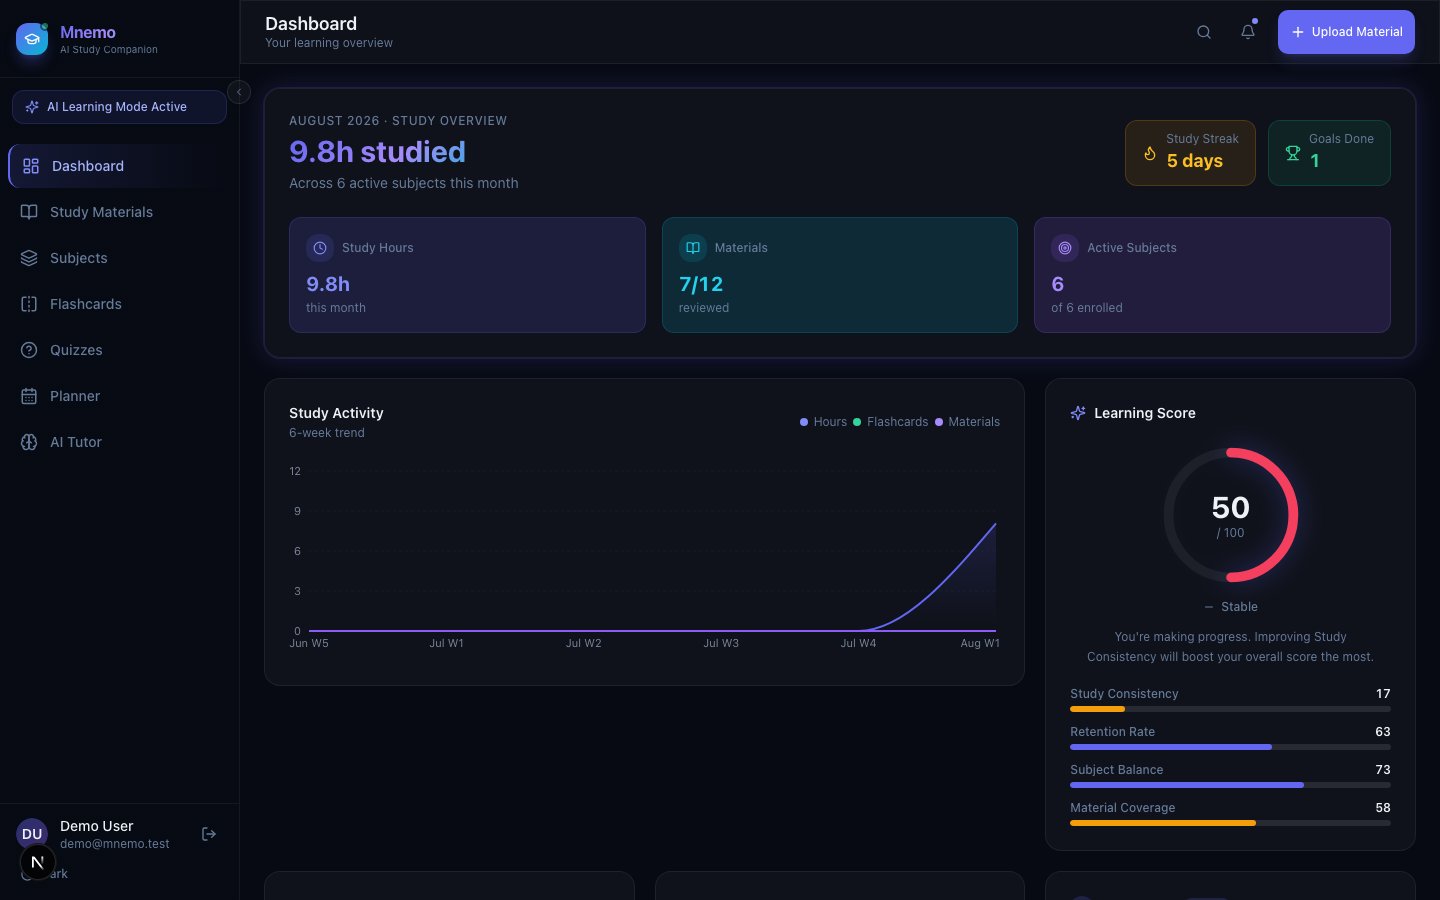
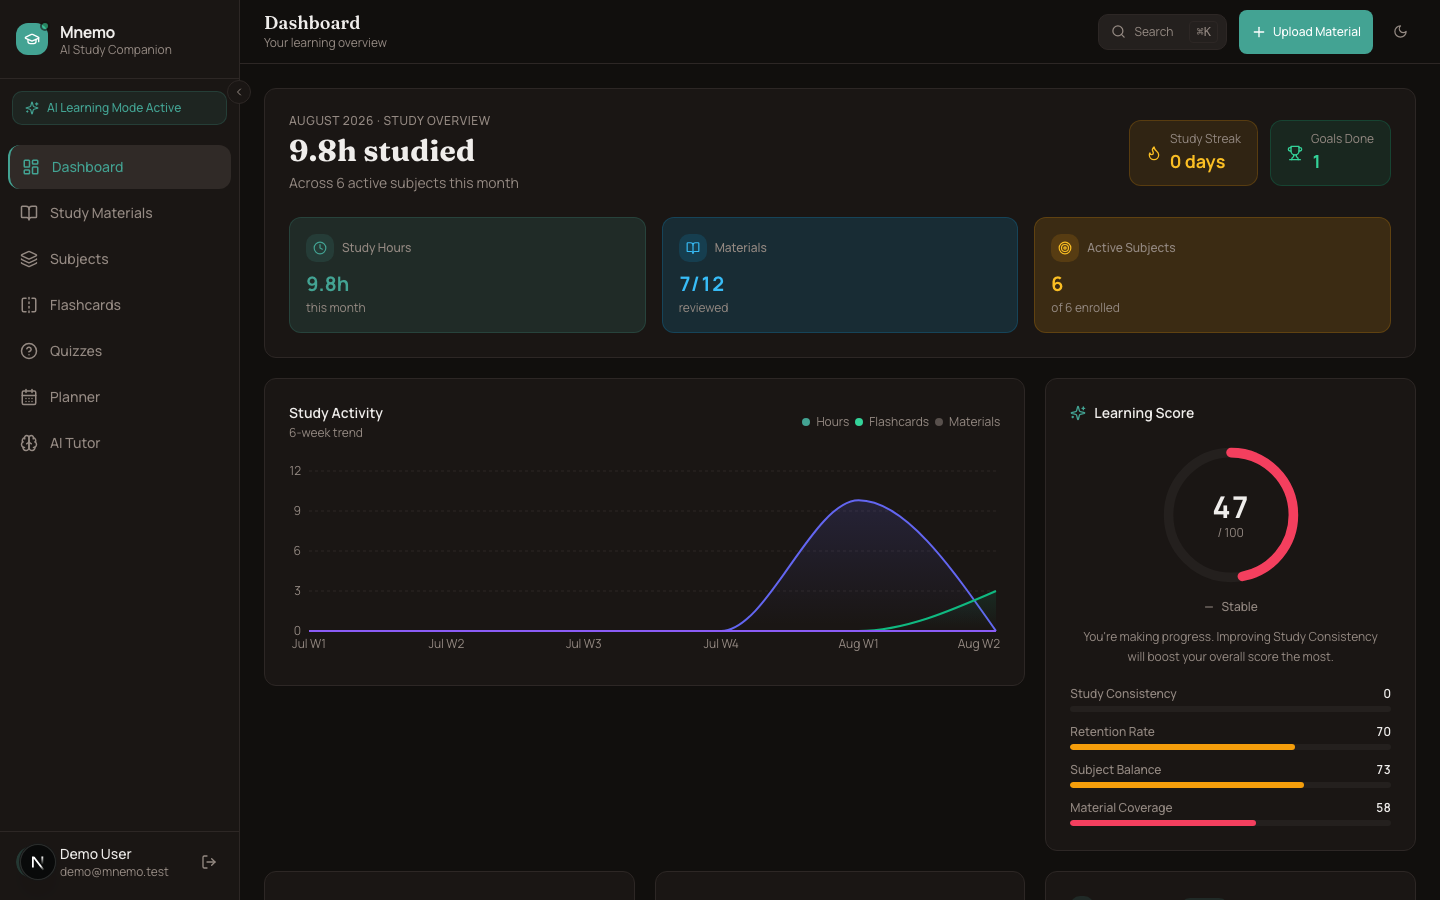
update readme

diff --git a/README.md b/README.md
@@ -4,7 +4,7 @@
 
 **AI-powered study companion** — summarize materials, generate flashcards and quizzes, and chat with an AI tutor that stays grounded in your own content.
 
-[![Live Demo](https://img.shields.io/badge/demo-mnemo--omega.vercel.app-6366f1?style=flat-square)](https://mnemo-omega.vercel.app)
+[![Live Demo](https://img.shields.io/badge/demo-mnemo--omega.vercel.app-2f9e8a?style=flat-square)](https://mnemo-omega.vercel.app)
 [![Next.js](https://img.shields.io/badge/Next.js-15-black?style=flat-square&logo=next.js)](https://nextjs.org)
 [![TypeScript](https://img.shields.io/badge/TypeScript-strict-3178C6?style=flat-square&logo=typescript&logoColor=white)](https://www.typescriptlang.org)
 [![Supabase](https://img.shields.io/badge/Supabase-live-3ECF8E?style=flat-square&logo=supabase&logoColor=white)](https://supabase.com)
@@ -63,7 +63,7 @@ The [live demo](https://mnemo-omega.vercel.app) runs against a real Supabase pro
 
 ```
 app/                  Next.js App Router — pages, layouts, API routes
-components/           UI components (glass-morphism design system, Radix primitives)
+components/           UI components (flat, token-based design system, Radix primitives)
 services/ai/          AI agents + provider abstraction (OpenRouter / Groq)
 services/supabase/    Supabase client + typed repository layer
 store/                Zustand stores (one per domain: auth, materials, flashcards, quizzes, sessions, AI chat, UI)
@@ -78,7 +78,7 @@ types/                Shared type definitions
 | Framework | Next.js 15 (App Router, Turbopack) + React 19 |
 | Language | TypeScript, strict mode |
 | State | Zustand |
-| Styling | Tailwind CSS + a custom glass-morphism design system |
+| Styling | Tailwind CSS + a flat, token-based design system (Radix primitives) |
 | Data | Supabase (Postgres + Auth + Storage), mock-first fallback |
 | AI | OpenRouter (free model router) with automatic Groq failover |
 | Charts | Recharts |
